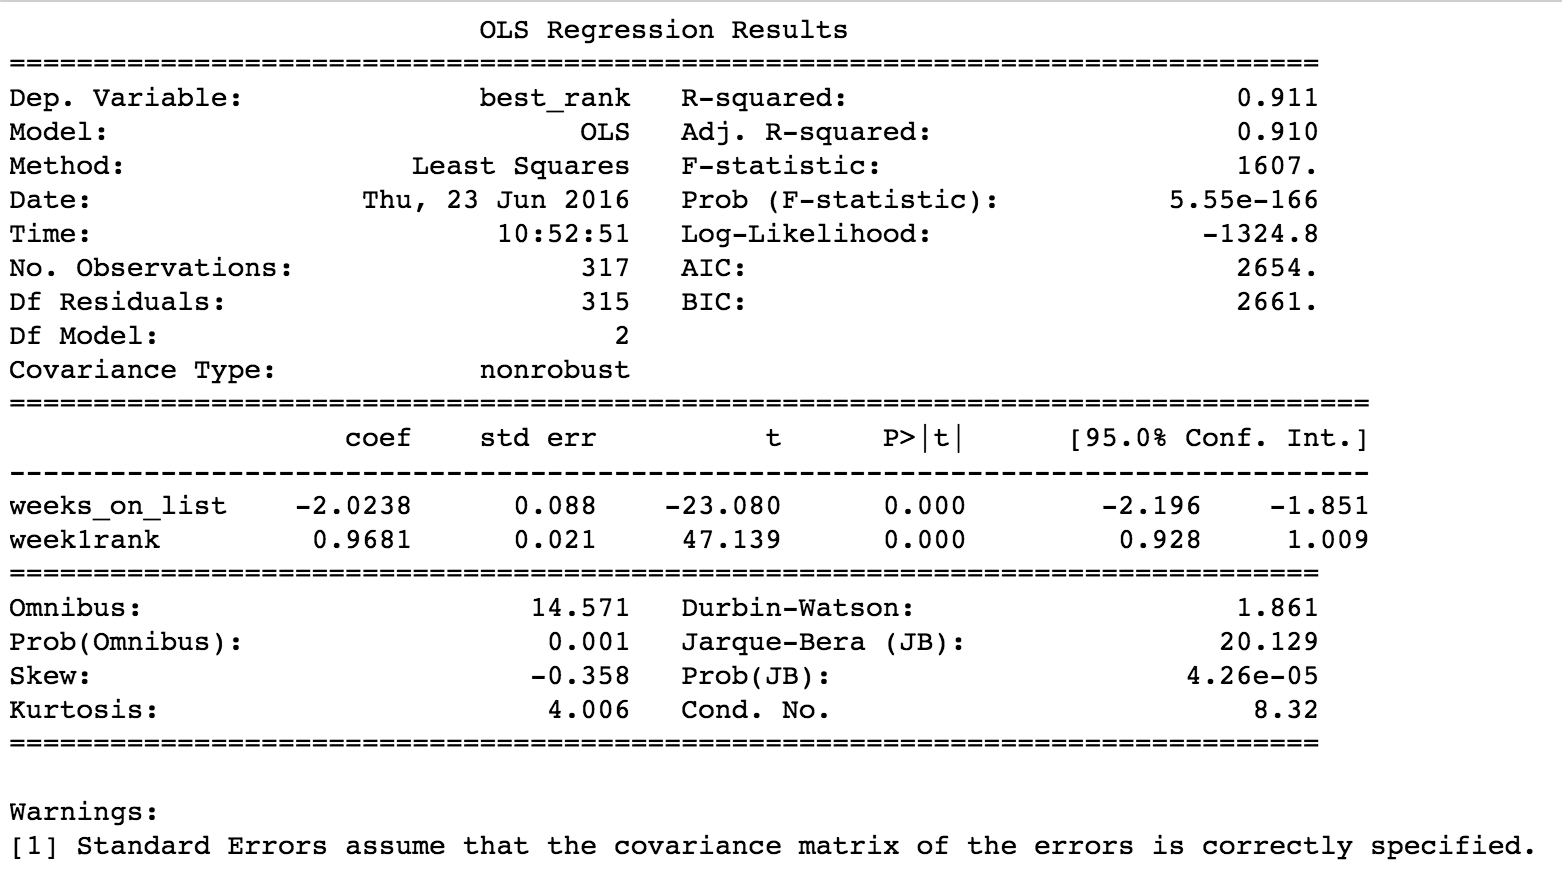
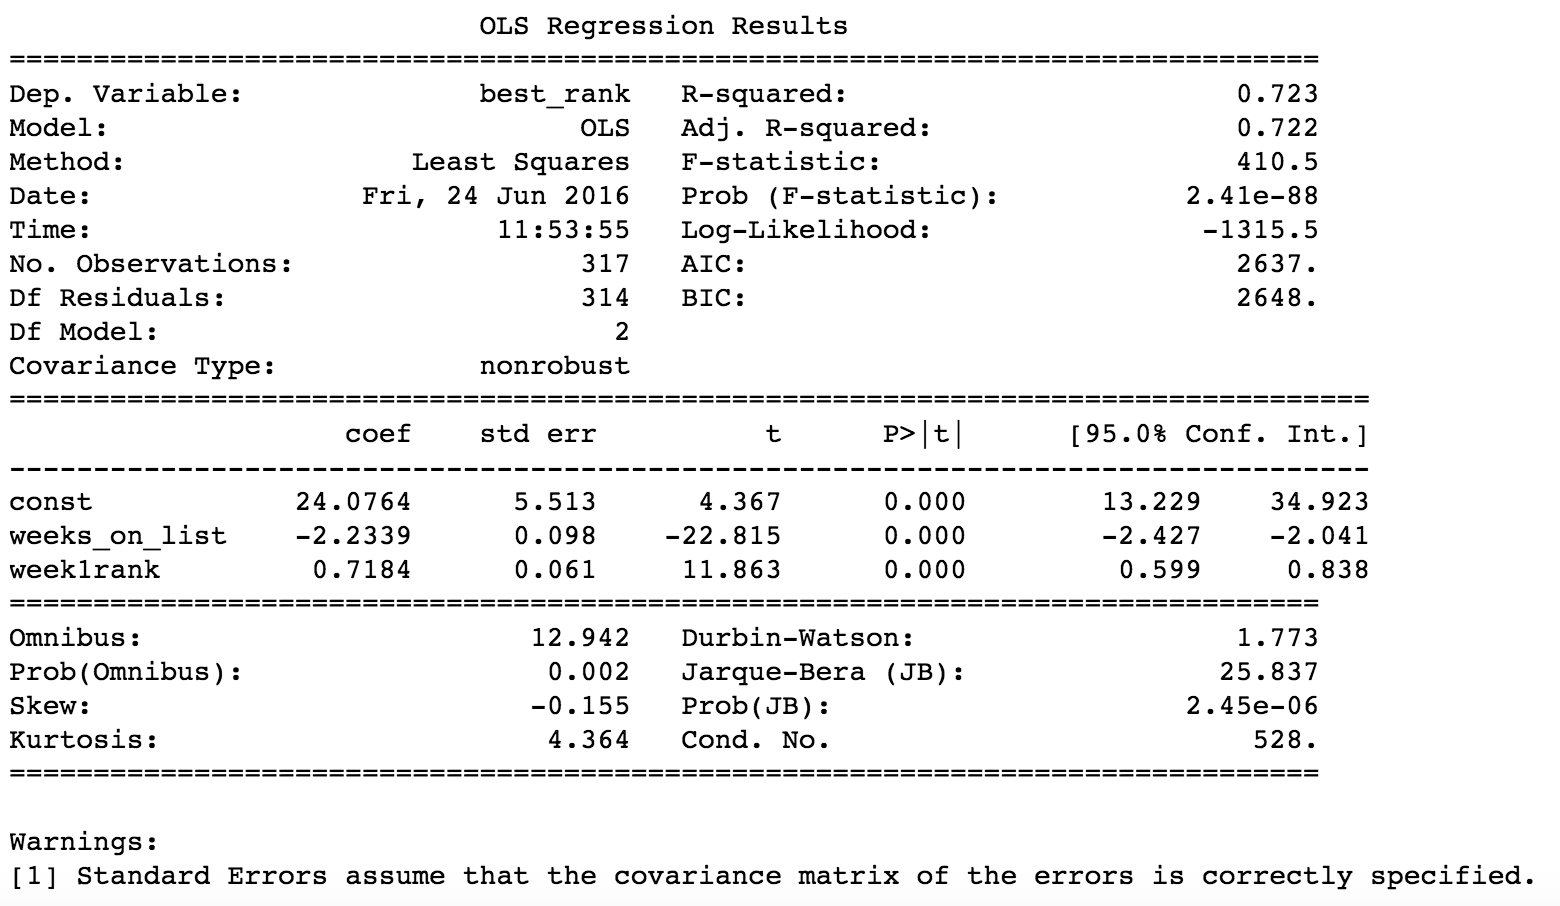
project 2 update

Changed region(s): [[0.0, 0.0, 0.8923, 0.8591], [0.0, 0.9205, 0.9846, 0.9818]]

diff --git a/_posts/2016-6-22-Project 2.md b/_posts/2016-6-22-Project 2.md
@@ -37,7 +37,7 @@ weeks variable.
 
 Including the debut rank as an additional independent variable (along with the number
 of weeks on the list) appears to be a much better fit. The r-squared figure raises
-to .91 and the number of weeks variable has the expected sign. For each additional week
+to .723 and the number of weeks variable has the expected sign. For each additional week
 on the Billboard chart, the expected top rank was just over two places better.
 Meanwhile, the relationship between the debut rank and the top rank was almost
 one-to-one. For each individual debut rank closer to 100, the top rank increased
